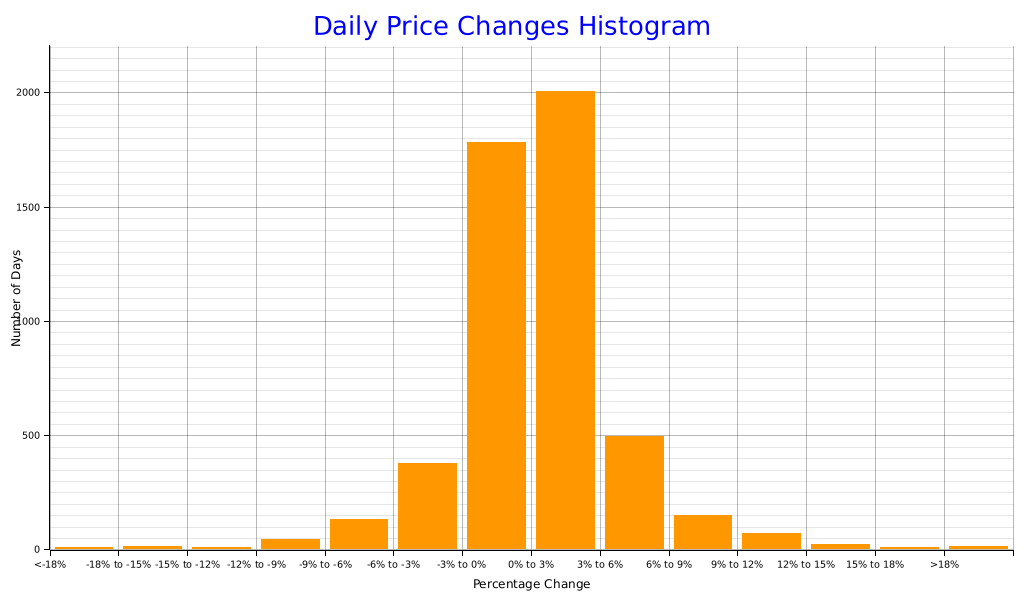
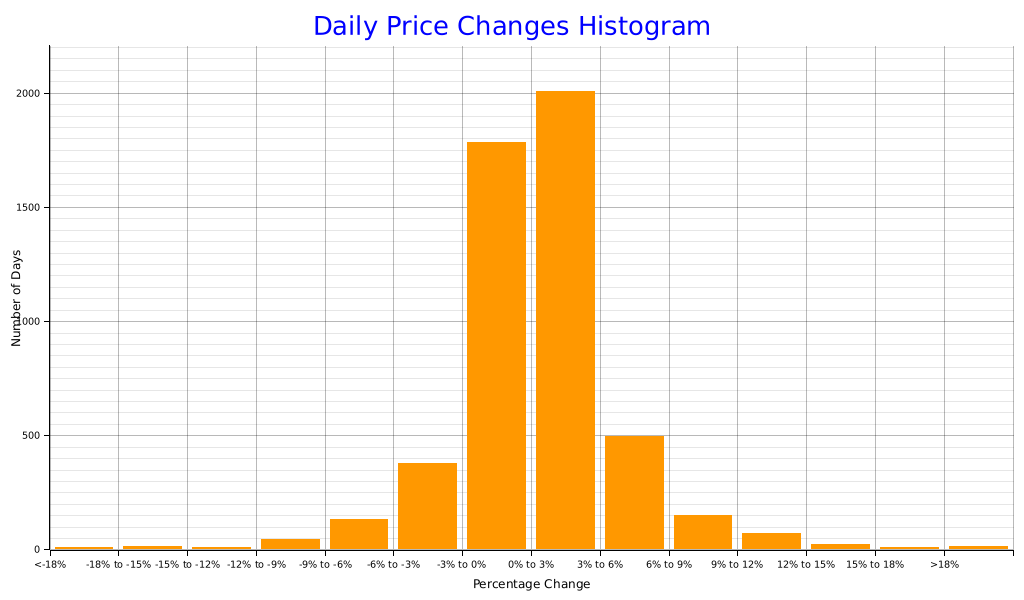
deploy: 95af0be866467ff5f422aab75c9020c8c4274433

diff --git a/index.html b/index.html
@@ -34,7 +34,7 @@
           <td>94,762.07</td>
           <td>87,399.40</td>
           <td></td>
-          <td>409,264,422,912.0</td>
+          <td>450,529,067,008.0</td>
         </tr>
         <tr>
           <td class='yearly-summary-year'>2025</td>
@@ -198,7 +198,7 @@
         </tr>
         <tr>
           <td>0% to 3%</td>
-          <td>2005</td>
+          <td>2006</td>
         </tr>
         <tr>
           <td>3% to 6%</td>
@@ -226,7 +226,7 @@
         </tr>
         <tr class='histogram-footer'>
           <td>Total Days</td>
-          <td>5148</td>
+          <td>5149</td>
         </tr>
       </tbody>
     </table>
@@ -235,7 +235,7 @@
     <br><br>
     <a href='https://github.com/bitcoin-tools/btracker'>Link to the report codebase</a>
     <br><br>
-    This report was last updated at 2026-01-13 05:56:21.862433754 UTC.
+    This report was last updated at 2026-01-13 06:38:31.965989493 UTC.
     <br><br>
     <div class='scrollable-table'>
       <table>
@@ -259,12 +259,24 @@
             <td>91,195.63</td>
             <td>92,059.72</td>
             <td>90,986.90</td>
-            <td>91,943.71</td>
-            <td class='wma-column'>57,275.21</td>
-            <td>37.33 (0.06 %)</td>
-            <td>52,276.95 (131.7 %)</td>
+            <td>91,891.64</td>
+            <td class='wma-column'>57,312.21</td>
+            <td>37.53 (0.06 %)</td>
+            <td>52,552.85 (133.5 %)</td>
             <td>1,072.82 (1.1 %)</td>
-            <td>1,116.25 (1.2 %)</td>
+            <td>698.64 (0.7 %)</td>
+          </tr>
+          <tr>
+            <td>2026-01-12</td>
+            <td>90,825.85</td>
+            <td>92,395.52</td>
+            <td>90,055.02</td>
+            <td>91,192.99</td>
+            <td class='wma-column'>57,274.67</td>
+            <td>36.80 (0.06 %)</td>
+            <td>51,526.23 (129.8 %)</td>
+            <td>2,340.50 (2.5 %)</td>
+            <td>365.53 (0.4 %)</td>
           </tr>
           <tr>
             <td>2026-01-11</td>
